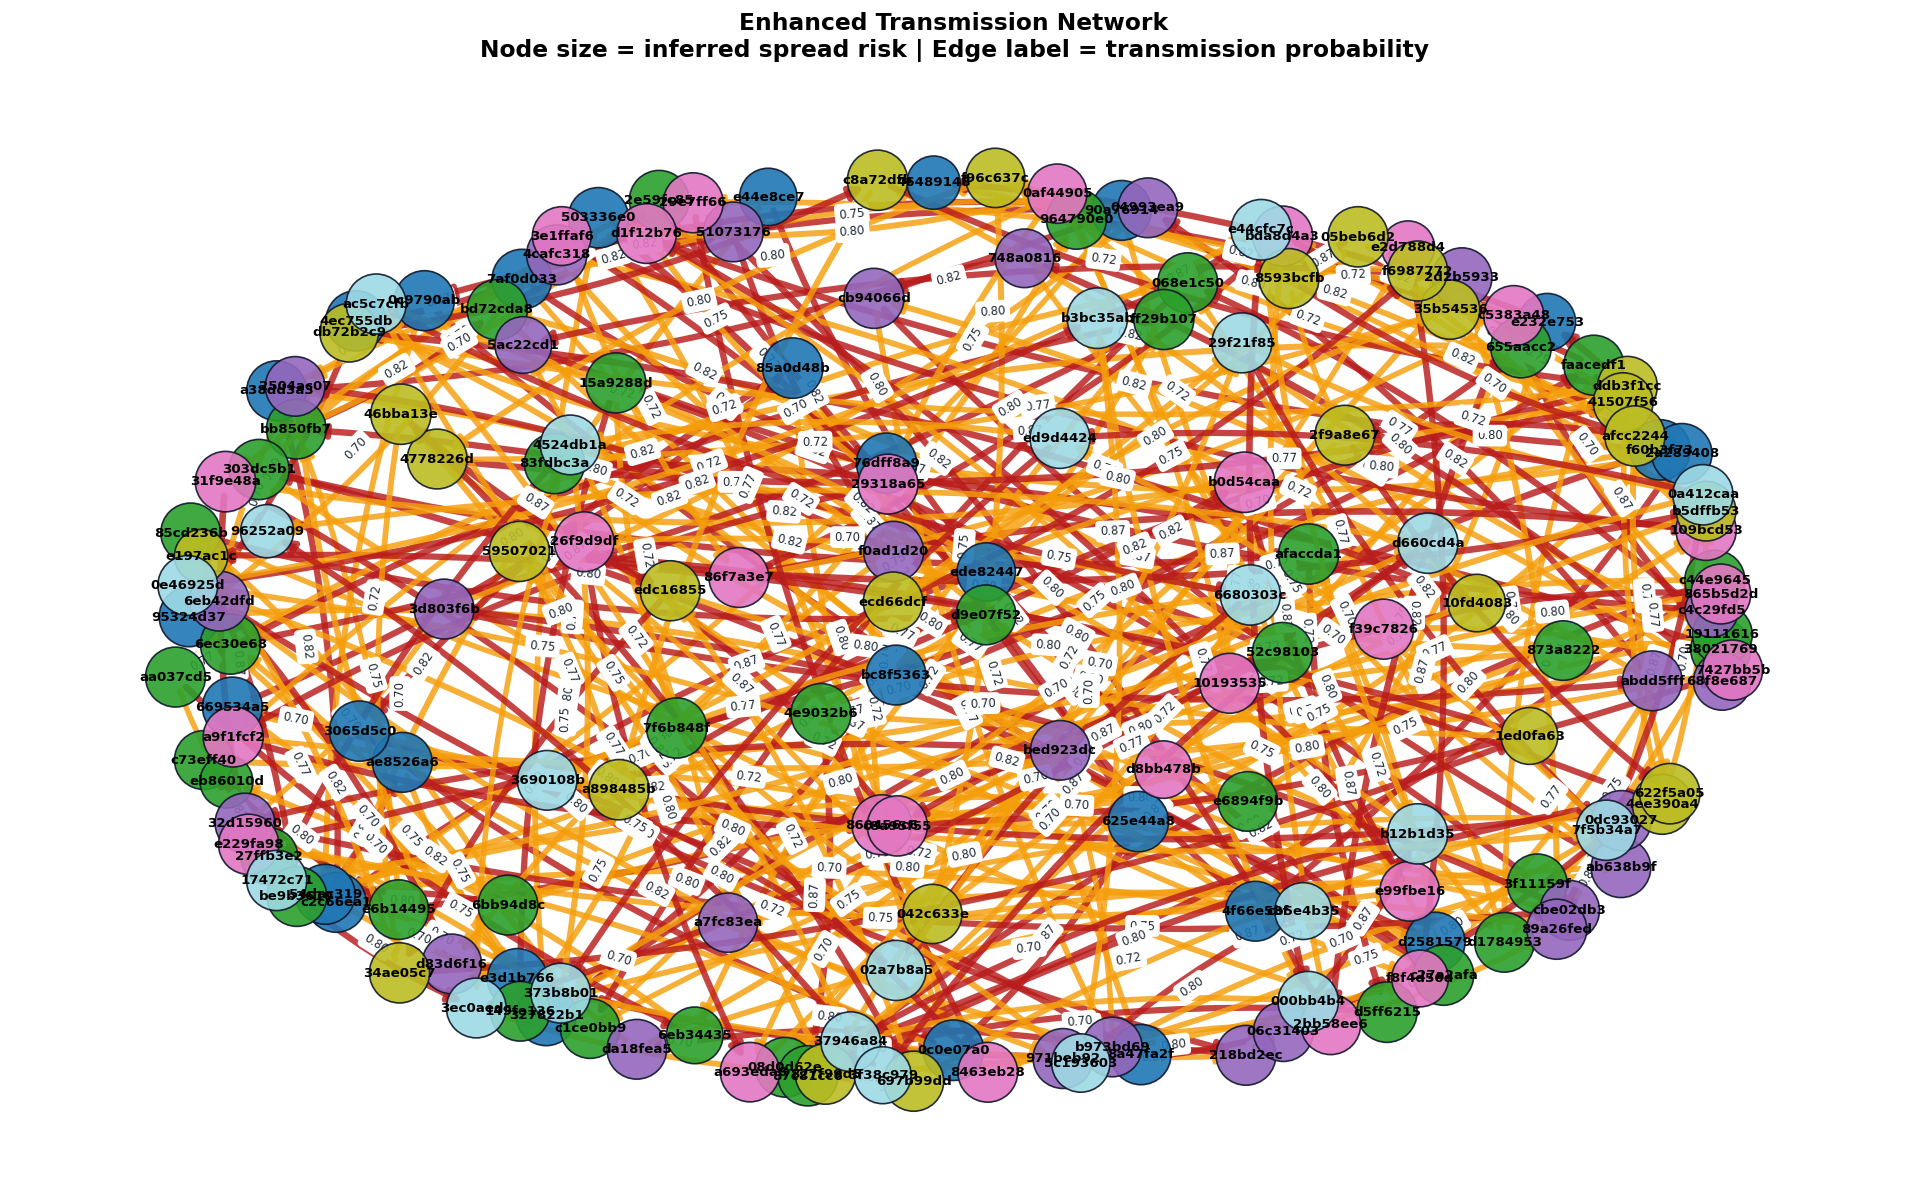
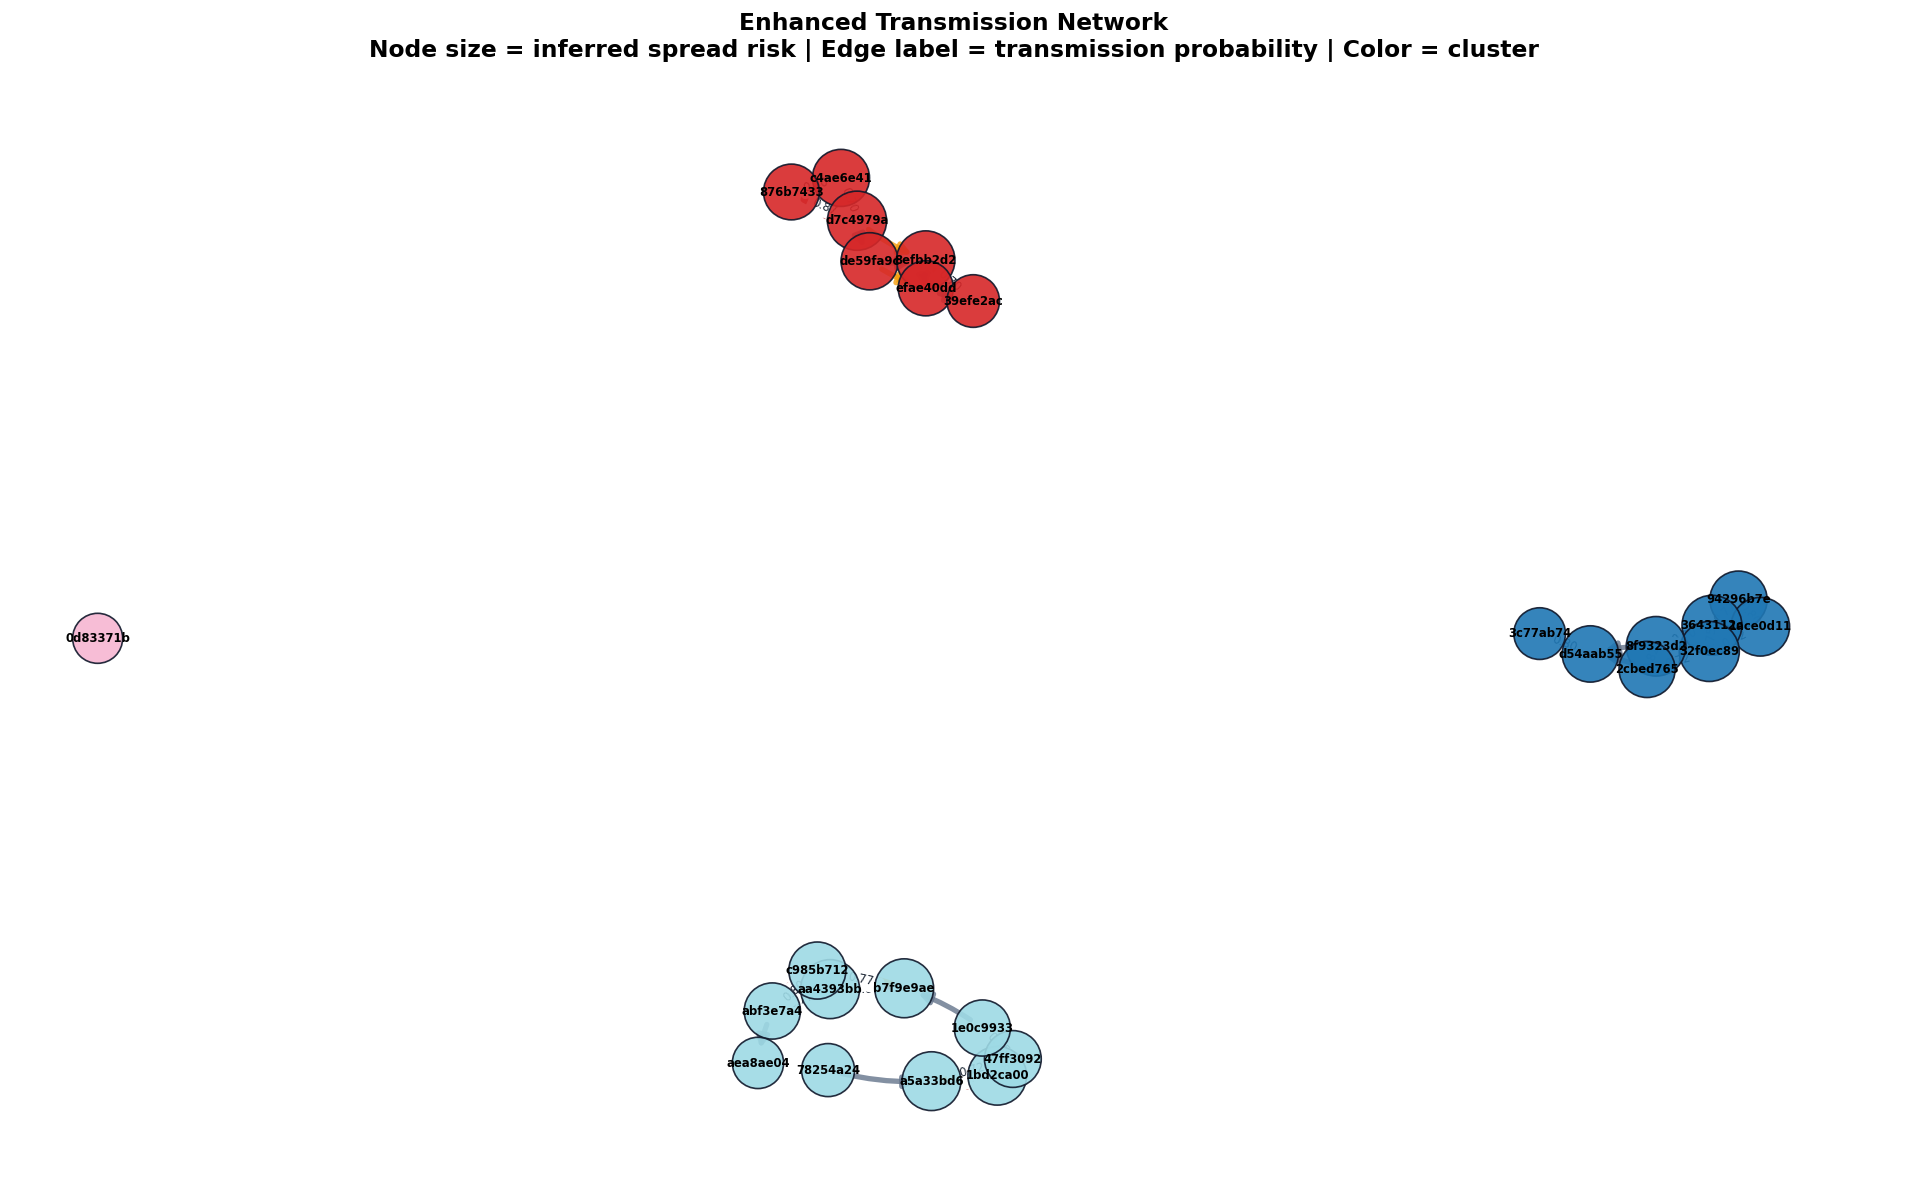
Cluster-centered network layout and ID labels
Add cluster-centered layout and improved case ID handling for transmission visualizations. The Python generator now preserves full case IDs, generates human-friendly short IDs with collision resolution, and adds display_case_id fields; nodes are keyed by full IDs while labels show resolved short/display IDs. A per-cluster spring layout arranges clusters around a ring for readability, rendering tweaks (label size, arrow styling, alpha) were applied, and the exported JSON now includes a layout field and full_case_id entries. Also update exported network assets (PNG/JSON) and adjust GUI styles for .seed-controls (layout, label wrapping, min-width and padding).

diff --git a/gui/styles.css b/gui/styles.css
@@ -149,11 +149,15 @@ input[type="file"] {
 
 .seed-controls {
 	display: grid;
-	grid-template-columns: auto minmax(0, 130px) auto minmax(0, 130px);
+	grid-template-columns: max-content minmax(0, 170px);
 	gap: 0.55rem;
 	align-items: center;
 	max-width: 560px;
 	margin: 0.85rem 0;
+}
+
+.seed-controls label {
+	white-space: nowrap;
 }
 
 .seed-controls input[type="number"],
@@ -162,12 +166,17 @@ input[type="file"] {
 .search-controls select,
 #caseHistoryId {
 	width: 100%;
+	min-width: 0;
 	padding: 0.5rem 0.58rem;
 	border: 1px solid #c3d2e3;
 	border-radius: 8px;
 	background: #ffffff;
 	font-family: inherit;
 	font-size: 0.9rem;
+}
+
+.seed-controls input[type="number"] {
+	padding-right: 1.6rem;
 }
 
 .inline-checkbox {
@@ -422,6 +431,10 @@ footer {
 	.seed-controls,
 	.search-controls {
 		grid-template-columns: 1fr;
+	}
+
+	.seed-controls label {
+		white-space: normal;
 	}
 
 	.search-controls button {

diff --git a/scripts/generate_priority_visualizations.py b/scripts/generate_priority_visualizations.py
@@ -137,14 +137,30 @@ def generate_transmission_network():
         graph = nx.DiGraph()
         cluster_order = sorted(grouped.keys())
 
+        def _short_id(full_id: str) -> str:
+            return str(full_id)[:8]
+
+        # Resolve 8-char collisions so labels stay human-readable but unique.
+        short_counts = {}
+        for cluster_id in cluster_order:
+            for row in grouped[cluster_id]:
+                sid = _short_id(row["case_id"])
+                short_counts[sid] = short_counts.get(sid, 0) + 1
+
         for cluster_id in cluster_order:
             rows = grouped[cluster_id]
             rows_sorted = sorted(rows, key=lambda r: _to_iso_date(r.get("specimen_date")))
             for row in rows_sorted:
-                case_id = str(row["case_id"])[:8]
+                full_case_id = str(row["case_id"])
+                short_case_id = _short_id(full_case_id)
+                display_case_id = short_case_id
+                if short_counts.get(short_case_id, 0) > 1:
+                    display_case_id = f"{short_case_id}-{full_case_id[8:12]}"
                 graph.add_node(
-                    case_id,
-                    full_case_id=str(row["case_id"]),
+                    full_case_id,
+                    short_case_id=short_case_id,
+                    display_case_id=display_case_id,
+                    full_case_id=full_case_id,
                     cluster_id=cluster_id,
                     specimen_date=_to_iso_date(row.get("specimen_date")),
                     region=row.get("geographic_region") or "Unknown",
@@ -155,8 +171,8 @@ def generate_transmission_network():
             for idx in range(len(rows_sorted) - 1):
                 src_row = rows_sorted[idx]
                 dst_row = rows_sorted[idx + 1]
-                src_id = str(src_row["case_id"])[:8]
-                dst_id = str(dst_row["case_id"])[:8]
+                src_id = str(src_row["case_id"])
+                dst_id = str(dst_row["case_id"])
                 source = graph.nodes[src_id]
                 target = graph.nodes[dst_id]
                 prob = _estimate_transmission_probability(source, target)
@@ -165,7 +181,7 @@ def generate_transmission_network():
                 # Add short-range alternative path when cases are tightly linked in time.
                 if idx + 2 < len(rows_sorted):
                     alt_dst_row = rows_sorted[idx + 2]
-                    alt_dst_id = str(alt_dst_row["case_id"])[:8]
+                    alt_dst_id = str(alt_dst_row["case_id"])
                     alt_target = {
                         "region": alt_dst_row.get("geographic_region") or "Unknown",
                         "lineage": alt_dst_row.get("lineage") or "Unknown",
@@ -197,7 +213,31 @@ def generate_transmission_network():
 
         # Render network figure.
         fig, ax = plt.subplots(figsize=(16, 10))
-        positions = nx.spring_layout(graph, seed=42, k=1.8, iterations=100)
+
+        # Cluster-centered layout: place each cluster in its own neighborhood,
+        # then run local spring layout per cluster for readability.
+        positions = {}
+        n_clusters = max(1, len(cluster_order))
+        ring_radius = max(3.0, 2.2 * n_clusters)
+
+        for idx, cluster_id in enumerate(cluster_order):
+            cluster_nodes = [n for n in graph.nodes() if graph.nodes[n].get("cluster_id") == cluster_id]
+            if not cluster_nodes:
+                continue
+
+            angle = (2 * np.pi * idx) / n_clusters
+            center = np.array([ring_radius * np.cos(angle), ring_radius * np.sin(angle)])
+
+            subgraph = graph.subgraph(cluster_nodes).to_undirected()
+            if subgraph.number_of_nodes() == 1:
+                positions[cluster_nodes[0]] = center
+            else:
+                local_pos = nx.spring_layout(subgraph, seed=42 + idx, k=1.6, iterations=120)
+                local_pos_arr = np.array(list(local_pos.values()))
+                max_abs = max(1.0, float(np.max(np.abs(local_pos_arr))))
+                scale = 1.45
+                for node, xy in local_pos.items():
+                    positions[node] = center + (np.array(xy) / max_abs) * scale
 
         cmap = plt.get_cmap("tab20", max(1, len(cluster_order)))
         cluster_color = {cluster: cmap(i) for i, cluster in enumerate(cluster_order)}
@@ -218,8 +258,10 @@ def generate_transmission_network():
                 edge_colors.append("#64748b")
 
         nx.draw_networkx_nodes(graph, positions, node_color=node_colors, node_size=node_sizes, ax=ax, alpha=0.9, edgecolors="#0f172a", linewidths=1.0)
-        nx.draw_networkx_edges(graph, positions, ax=ax, arrows=True, arrowsize=16, arrowstyle="-|>", edge_color=edge_colors, width=edge_widths, alpha=0.82, connectionstyle="arc3,rad=0.08")
-        nx.draw_networkx_labels(graph, positions, ax=ax, font_size=8, font_weight="bold")
+        nx.draw_networkx_edges(graph, positions, ax=ax, arrows=True, arrowsize=14, arrowstyle="-|>", edge_color=edge_colors, width=edge_widths, alpha=0.8, connectionstyle="arc3,rad=0.08")
+
+        labels = {n: graph.nodes[n].get("display_case_id", str(n)[:8]) for n in graph.nodes()}
+        nx.draw_networkx_labels(graph, positions, labels=labels, ax=ax, font_size=7, font_weight="bold")
 
         edge_labels = {(s, t): f"{graph.edges[s, t].get('probability', 0):.2f}" for s, t in graph.edges() if graph.edges[s, t].get("probability", 0) >= 0.7}
         if edge_labels:
@@ -227,7 +269,7 @@ def generate_transmission_network():
 
         ax.set_title(
             "Enhanced Transmission Network\n"
-            "Node size = inferred spread risk | Edge label = transmission probability",
+            "Node size = inferred spread risk | Edge label = transmission probability | Color = cluster",
             fontsize=14,
             fontweight="bold",
             pad=16,
@@ -245,10 +287,12 @@ def generate_transmission_network():
             "node_count": graph.number_of_nodes(),
             "edge_count": graph.number_of_edges(),
             "cluster_count": len(cluster_order),
+            "layout": "cluster_centered",
             "high_confidence_edges": high_conf_edges,
             "key_nodes": [
                 {
-                    "case_id": node,
+                    "case_id": graph.nodes[node].get("display_case_id", node[:8]),
+                    "full_case_id": graph.nodes[node].get("full_case_id", node),
                     "cluster_id": graph.nodes[node].get("cluster_id"),
                     "region": graph.nodes[node].get("region"),
                     "risk_score": graph.nodes[node].get("risk_score"),
